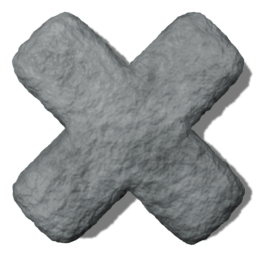
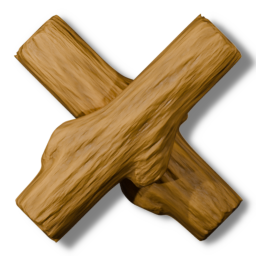
image reference fix

diff --git a/Website/lore_website/Scripts/tictactoe.js b/Website/lore_website/Scripts/tictactoe.js
@@ -45,12 +45,12 @@ class TicTacToe {
 
       if (cell === "X") {
         const img = document.createElement("img")
-        img.src = "../../ImageAssets/X-Tile.png"
+        img.src = "../ImageAssets/X-Tile-Small.png"
         img.alt = "X"
         cellElement.appendChild(img)
       } else if (cell === "O") {
         const img = document.createElement("img")
-        img.src = "../../ImageAssets/O-Tile.png"
+        img.src = "../ImageAssets/O-Tile-Small.png"
         img.alt = "O"
         cellElement.appendChild(img)
       }
